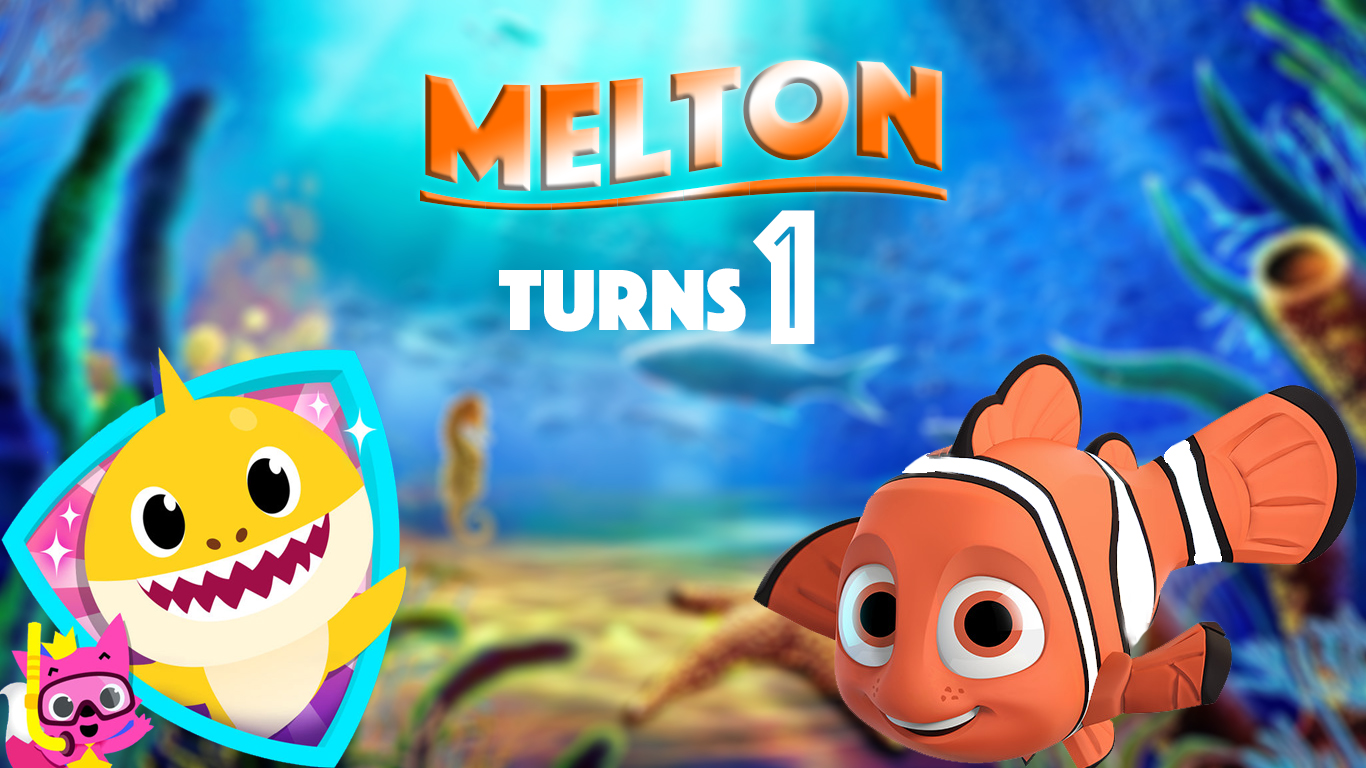
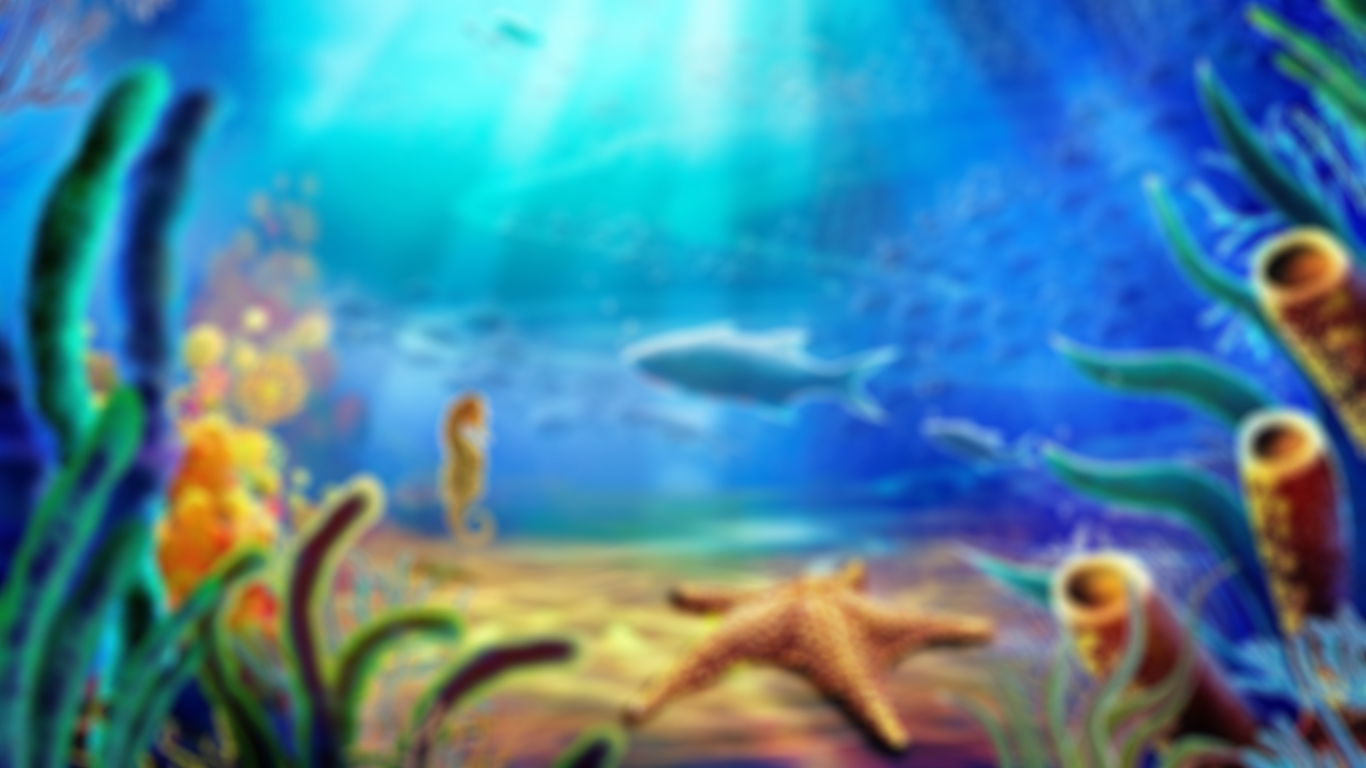
cold

diff --git a/index_old.html b/index_old.html
@@ -26,68 +26,13 @@
   <body id="page-top">
     
     <!-- Header -->
-    <header class="masthead d-flex" style="padding-top: 0rem;">
-
-<!--       <div class="container text-center my-auto"> <br><br>
-        <img src="img/melton.png" class="img-fluid mb-5 d-block mx-auto"><br>
-        <img src="img/1.png">
+    <header class="masthead d-flex">
+      <div class="container text-center my-auto"><br><br><br><br><br><br><br><br>
         <h3 class="mb-1">Come and celebrate with us!</h3>
         <h3 class="mb-5">
-        </h3>
-        <a class="btn btn-warning btn-xl js-scroll-trigger" href="#about">Find Out More</a> -->
-      <div class="row h-100">
-        <div class="col-lg-3 my-auto">
-          <img src="img/shark.png" class="img-fluid float-left" alt="shark">
-        </div>
-        <div class="col-lg-6 my-auto">
-          <div class="container text-center my-auto"> <br><br>
-            <img src="img/melton.png" class="img-fluid mb-5 d-block mx-auto"><br>
-            <img src="img/1.png">
-            <h3 class="mb-1">Come and celebrate with us!</h3>
-
-            <a class="btn btn-warning btn-xl js-scroll-trigger" href="#about">Find Out More</a>
-          </div>
-        </div>
-        <div class="col-lg-3 my-auto">
-          <img src="img/nemo.png" class="img-fluid float-right" alt="shark" >
-        </div>
-<!--         <div class="container-fluid">
-          <img src="img/shark.png" class="img-fluid float-left" alt="shark">
-          <img src="img/nemo.png" class="img-fluid float-right" alt="shark" >
-        </div> -->
-      </div>
-<!--       <div class="container text-center my-auto"> <br><br>
-        <img src="img/melton.png" class="img-fluid mb-5 d-block mx-auto"><br>
-        <img src="img/1.png">
-        <h3 class="mb-1">Come and celebrate with us!</h3>
-        <h3 class="mb-5">
+          <!-- <em>A Free Bootstrap Theme by Start Bootstrap</em> -->
         </h3>
         <a class="btn btn-warning btn-xl js-scroll-trigger" href="#about">Find Out More</a>
-
-        <div class="container-fluid">
-          <img src="img/shark.png" class="img-fluid float-left" alt="shark">
-          <img src="img/nemo.png" class="img-fluid float-right" alt="shark" >
-        </div> -->
-
-
-
-
-
-<!--       <div class="container">
-        <div class="row">
-          <div class="col-sm-3">
-
-            <img src="img/shark.png" class="rounded float-left" alt="...">
-          </div>
-          <div class="col-sm-3">
-
-          </div>
-          <div class="col-sm-3">
-
-            <img src="img/nemo.png" class="rounded float-left" alt="...">
-          </div>
-        </div>
-      </div> -->
       </div>
       <div class="overlay"></div>
     </header>
